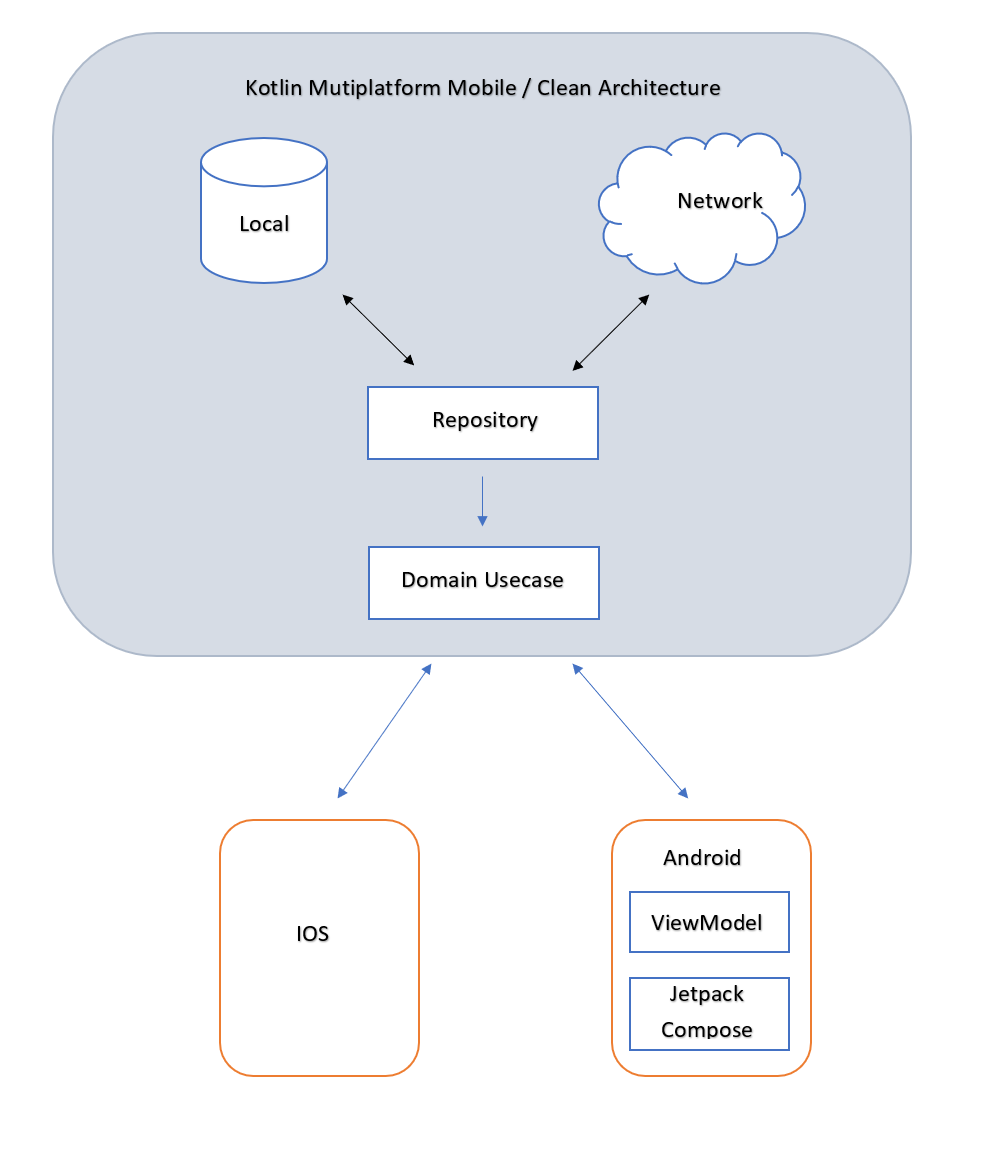
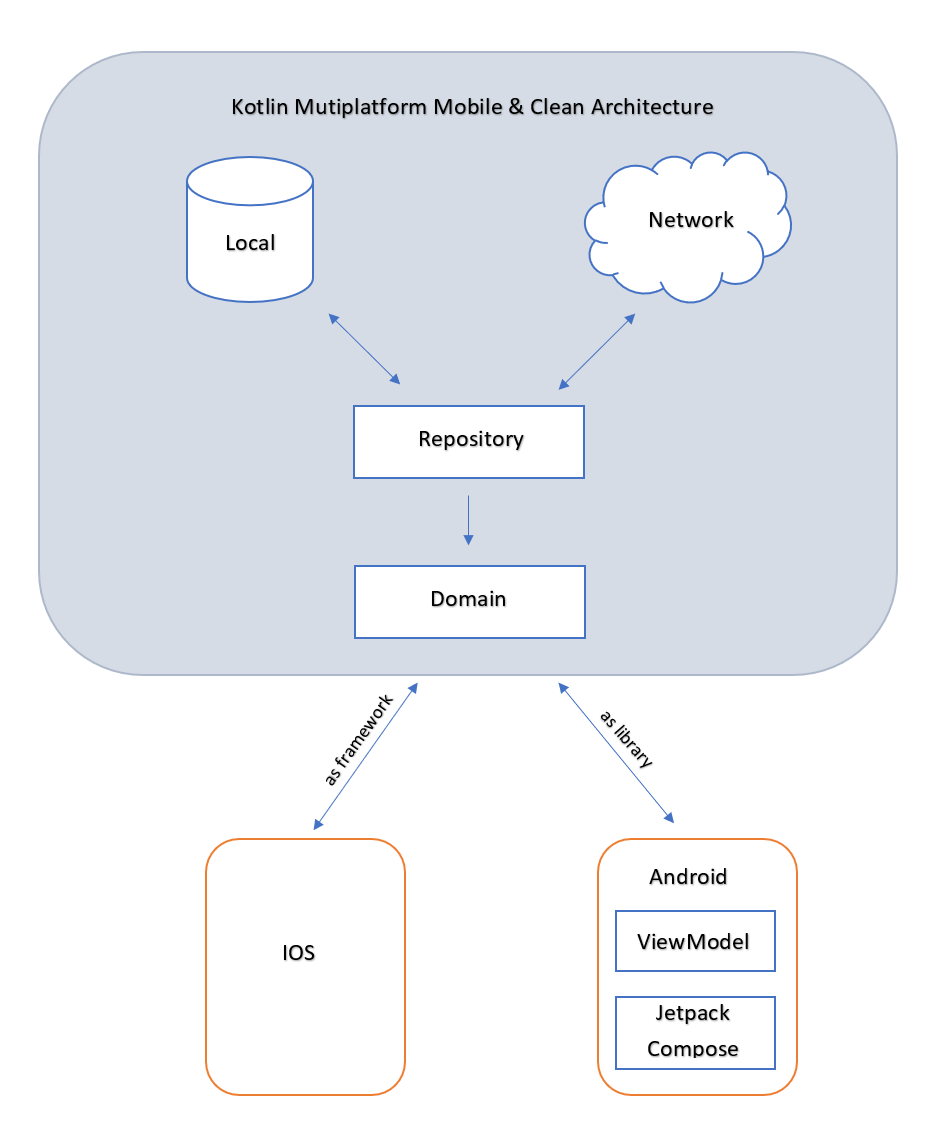
update diagram and readme

diff --git a/androidApp/src/main/java/net/muhaimin/flickrapp/android/component/PhotoCard.kt b/androidApp/src/main/java/net/muhaimin/flickrapp/android/component/PhotoCard.kt
@@ -79,7 +79,7 @@ fun PhotoCard(
                 color = if(selected.value) Color.Blue.copy(alpha = 0.6f) else MaterialTheme.colors.surface.copy(alpha = 0f),
                 modifier = Modifier.fillMaxSize()
             ){
-                //....
+
             }
         }
     }

diff --git a/README.md b/README.md
@@ -13,4 +13,4 @@
 - Couroutine
 - Hilt
 - Jetpack Compose
-- Hilt
+- Coin
